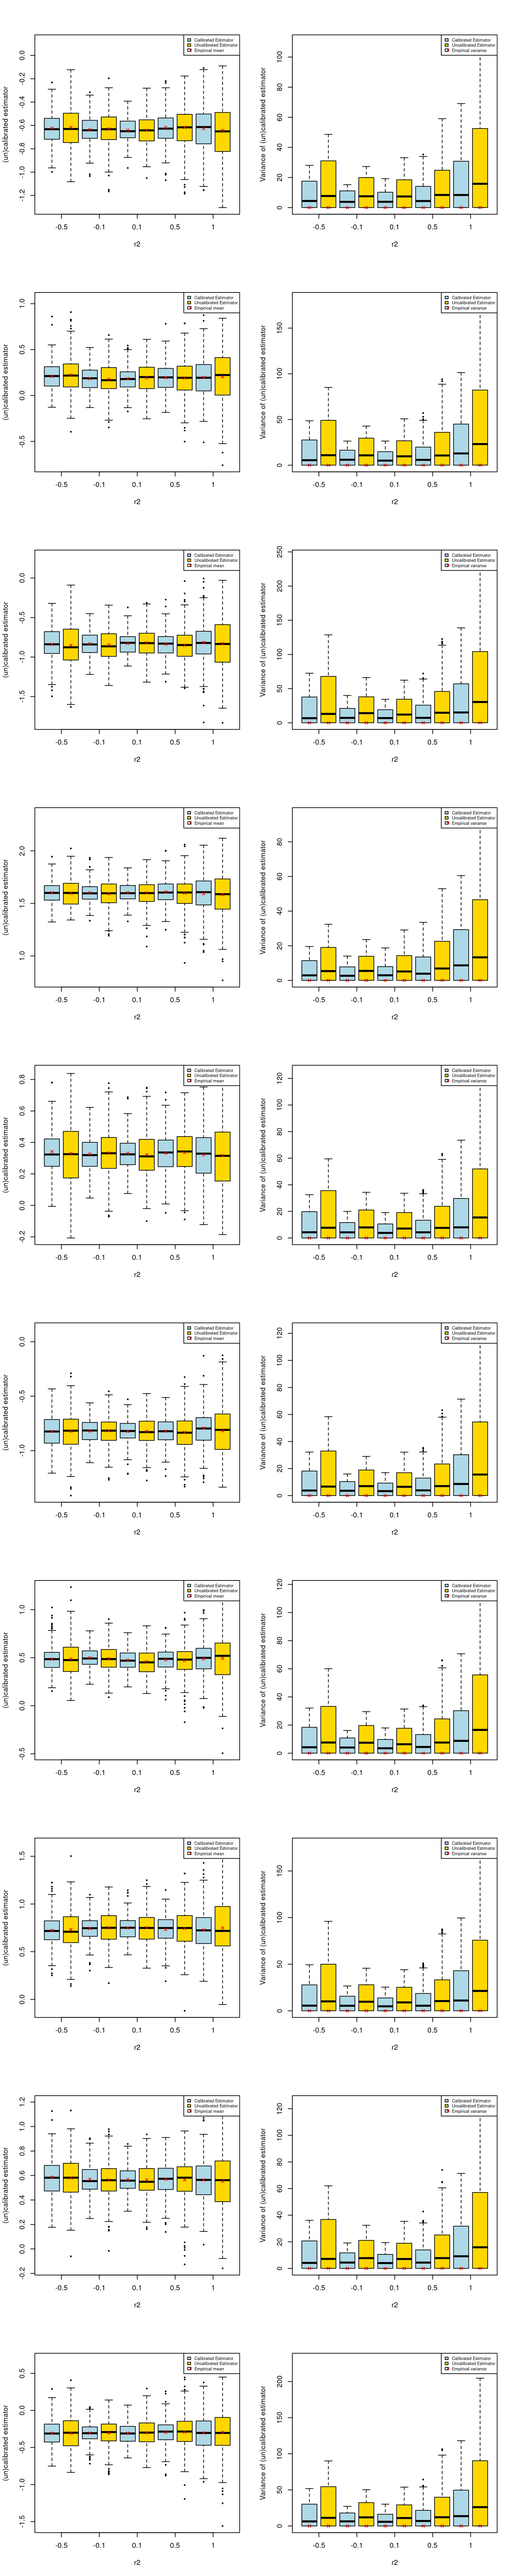
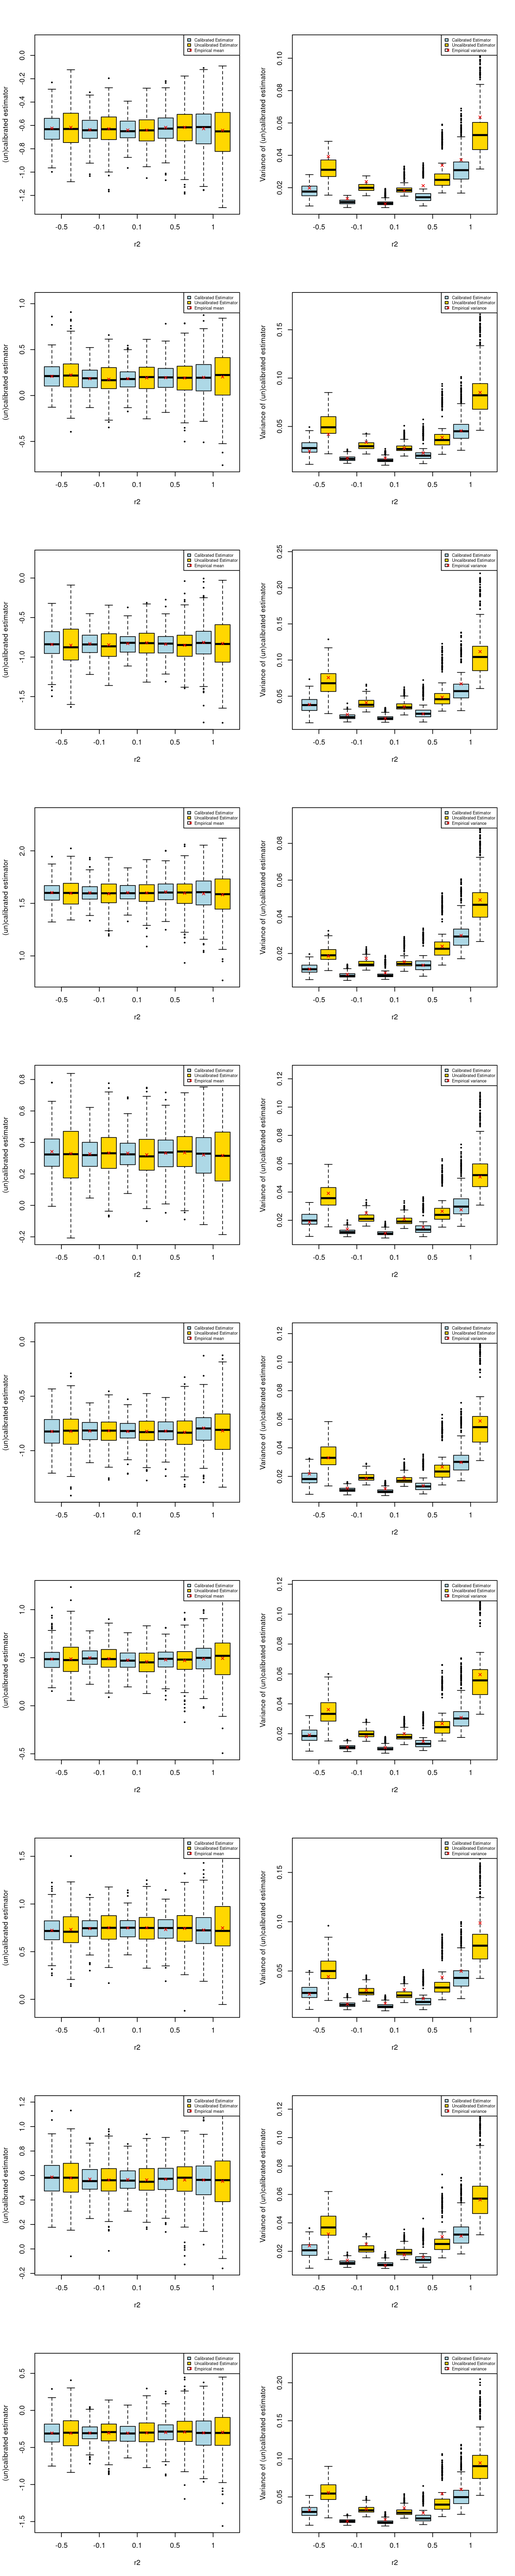
Build site.

diff --git a/docs/sim_calibration_randomX.html b/docs/sim_calibration_randomX.html
@@ -522,15 +522,15 @@ project makes it easier to run your code on other machines.</p>
 <div class="panel panel-default">
 <div class="panel-heading">
 <p class="panel-title">
-<a data-toggle="collapse" data-parent="#workflowr-checks" href="#strongRepositoryversionstrongahrefhttpsgithubcomyunqiyang0215simulationcalibratedmrtree2bd8e98487f26e7d9604988ad5ee0cbd3df687b4targetblank2bd8e98a">
+<a data-toggle="collapse" data-parent="#workflowr-checks" href="#strongRepositoryversionstrongahrefhttpsgithubcomyunqiyang0215simulationcalibratedmrtree0a24191847d0dbe65dffa598ad8452178448d38etargetblank0a24191a">
 <span class="glyphicon glyphicon-ok text-success"
 aria-hidden="true"></span> <strong>Repository version:</strong>
-<a href="https://github.com/yunqiyang0215/simulation-calibrated-mr/tree/2bd8e98487f26e7d9604988ad5ee0cbd3df687b4" target="_blank">2bd8e98</a>
+<a href="https://github.com/yunqiyang0215/simulation-calibrated-mr/tree/0a24191847d0dbe65dffa598ad8452178448d38e" target="_blank">0a24191</a>
 </a>
 </p>
 </div>
 <div
[2 lines of base64/hex data omitted]
 class="panel-collapse collapse">
 <div class="panel-body">
 <p>
@@ -540,7 +540,7 @@ reproducibility.
 </p>
 <p>
 The results in this page were generated with repository version
-<a href="https://github.com/yunqiyang0215/simulation-calibrated-mr/tree/2bd8e98487f26e7d9604988ad5ee0cbd3df687b4" target="_blank">2bd8e98</a>.
+<a href="https://github.com/yunqiyang0215/simulation-calibrated-mr/tree/0a24191847d0dbe65dffa598ad8452178448d38e" target="_blank">0a24191</a>.
 See the <em>Past versions</em> tab to see a history of the changes made
 to the R Markdown and HTML files.
 </p>
@@ -607,6 +607,40 @@ Message
 </tr>
 </thead>
 <tbody>
+<tr>
+<td>
+Rmd
+</td>
+<td>
+<a href="https://github.com/yunqiyang0215/simulation-calibrated-mr/blob/0a24191847d0dbe65dffa598ad8452178448d38e/analysis/sim_calibration_randomX.Rmd" target="_blank">0a24191</a>
+</td>
+<td>
+yunqi yang
+</td>
+<td>
+2024-03-08
+</td>
+<td>
+wflow_publish("analysis/sim_calibration_randomX.Rmd")
+</td>
+</tr>
+<tr>
+<td>
+html
+</td>
+<td>
+<a href="https://rawcdn.githack.com/yunqiyang0215/simulation-calibrated-mr/533df271828f21b39b2df8f601e86fd2f5f5932f/docs/sim_calibration_randomX.html" target="_blank">533df27</a>
+</td>
+<td>
+yunqi yang
+</td>
+<td>
+2024-03-08
+</td>
+<td>
+Build site.
+</td>
+</tr>
 <tr>
 <td>
 Rmd
@@ -878,6 +912,17 @@ Date
 <tbody>
 <tr>
 <td>
+<a href="https://github.com/yunqiyang0215/simulation-calibrated-mr/blob/533df271828f21b39b2df8f601e86fd2f5f5932f/docs/figure/sim_calibration_randomX.Rmd/unnamed-chunk-3-1.png" target="_blank">533df27</a>
+</td>
+<td>
+yunqi yang
+</td>
+<td>
+2024-03-08
+</td>
+</tr>
+<tr>
+<td>
 <a href="https://github.com/yunqiyang0215/simulation-calibrated-mr/blob/c99248e74e4d4200ee129f19e34a2101940749bf/docs/figure/sim_calibration_randomX.Rmd/unnamed-chunk-3-1.png" target="_blank">c99248e</a>
 </td>
 <td>
@@ -977,6 +1022,17 @@ Date
 <tbody>
 <tr>
 <td>
+<a href="https://github.com/yunqiyang0215/simulation-calibrated-mr/blob/533df271828f21b39b2df8f601e86fd2f5f5932f/docs/figure/sim_calibration_randomX.Rmd/unnamed-chunk-4-1.png" target="_blank">533df27</a>
+</td>
+<td>
+yunqi yang
+</td>
+<td>
+2024-03-08
+</td>
+</tr>
+<tr>
+<td>
 <a href="https://github.com/yunqiyang0215/simulation-calibrated-mr/blob/c99248e74e4d4200ee129f19e34a2101940749bf/docs/figure/sim_calibration_randomX.Rmd/unnamed-chunk-4-1.png" target="_blank">c99248e</a>
 </td>
 <td>
@@ -1072,6 +1128,17 @@ Date
 <tbody>
 <tr>
 <td>
+<a href="https://github.com/yunqiyang0215/simulation-calibrated-mr/blob/533df271828f21b39b2df8f601e86fd2f5f5932f/docs/figure/sim_calibration_randomX.Rmd/unnamed-chunk-5-1.png" target="_blank">533df27</a>
+</td>
+<td>
+yunqi yang
+</td>
+<td>
+2024-03-08
+</td>
+</tr>
+<tr>
+<td>
 <a href="https://github.com/yunqiyang0215/simulation-calibrated-mr/blob/bfcc99a8e5546585e55ec49f672b53d576738911/docs/figure/sim_calibration_randomX.Rmd/unnamed-chunk-5-1.png" target="_blank">bfcc99a</a>
 </td>
 <td>
@@ -1114,7 +1181,7 @@ for (i in 1:p){
   
   ### Plot variance
   empirical_var = apply(dat_estimator, 2, var)
-  snp_dat_list = lapply(1:length(r2), function(k) combine_single_snp_stat(which(res$sim_data.r2 == r2[k]), i, data.list = res$fit.sumstat, column_names = c(&quot;Y2.cali.var&quot;, &quot;Y2.var.raw&quot;)))
+  snp_dat_list = lapply(1:length(r2), function(k) combine_single_snp_stat(which(res$sim_data.r2 == r2[k] &amp; res$fit.method == &quot;calibrated&quot;), i, data.list = res$fit.sumstat, column_names = c(&quot;Y2.cali.var&quot;, &quot;Y2.var.raw&quot;)))
   dat_estimator_var &lt;- do.call(cbind, snp_dat_list)
     
   colors &lt;- rep(c(&quot;lightblue&quot;, &quot;gold1&quot;), length.out = ncol(dat_estimator_var))
@@ -1160,6 +1227,17 @@ Date
 </tr>
 </thead>
 <tbody>
+<tr>
+<td>
+<a href="https://github.com/yunqiyang0215/simulation-calibrated-mr/blob/533df271828f21b39b2df8f601e86fd2f5f5932f/docs/figure/sim_calibration_randomX.Rmd/unnamed-chunk-6-1.png" target="_blank">533df27</a>
+</td>
+<td>
+yunqi yang
+</td>
+<td>
+2024-03-08
+</td>
+</tr>
 <tr>
 <td>
 <a href="https://github.com/yunqiyang0215/simulation-calibrated-mr/blob/bfcc99a8e5546585e55ec49f672b53d576738911/docs/figure/sim_calibration_randomX.Rmd/unnamed-chunk-6-1.png" target="_blank">bfcc99a</a>
@@ -1250,6 +1328,17 @@ Date
 <tbody>
 <tr>
 <td>
+<a href="https://github.com/yunqiyang0215/simulation-calibrated-mr/blob/533df271828f21b39b2df8f601e86fd2f5f5932f/docs/figure/sim_calibration_randomX.Rmd/unnamed-chunk-7-1.png" target="_blank">533df27</a>
+</td>
+<td>
+yunqi yang
+</td>
+<td>
+2024-03-08
+</td>
+</tr>
+<tr>
+<td>
 <a href="https://github.com/yunqiyang0215/simulation-calibrated-mr/blob/bfcc99a8e5546585e55ec49f672b53d576738911/docs/figure/sim_calibration_randomX.Rmd/unnamed-chunk-7-1.png" target="_blank">bfcc99a</a>
 </td>
 <td>
@@ -1332,6 +1421,17 @@ Date
 </tr>
 </thead>
 <tbody>
+<tr>
+<td>
+<a href="https://github.com/yunqiyang0215/simulation-calibrated-mr/blob/533df271828f21b39b2df8f601e86fd2f5f5932f/docs/figure/sim_calibration_randomX.Rmd/unnamed-chunk-8-1.png" target="_blank">533df27</a>
+</td>
+<td>
+yunqi yang
+</td>
+<td>
+2024-03-08
+</td>
+</tr>
 <tr>
 <td>
 <a href="https://github.com/yunqiyang0215/simulation-calibrated-mr/blob/bfcc99a8e5546585e55ec49f672b53d576738911/docs/figure/sim_calibration_randomX.Rmd/unnamed-chunk-8-1.png" target="_blank">bfcc99a</a>
